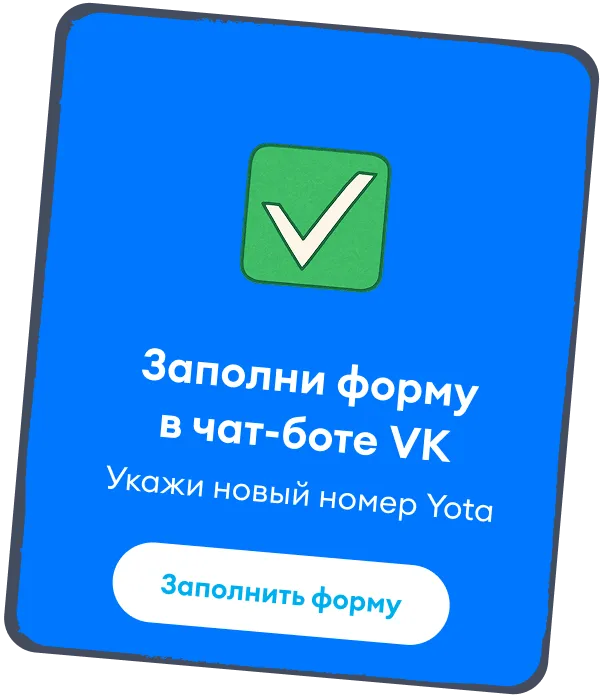
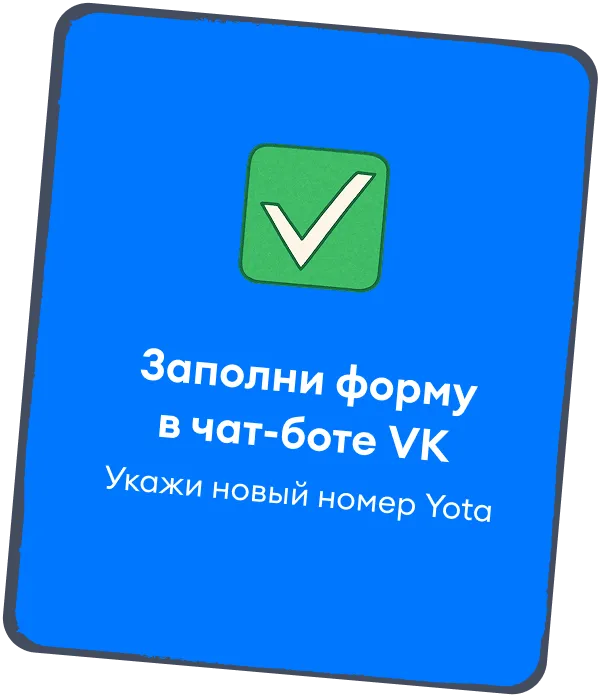
feat(app): кнопка для шага 2

diff --git a/src/app/components/blocks/steps/steps.html b/src/app/components/blocks/steps/steps.html
@@ -26,13 +26,19 @@
         </div>
       </div>
       <div class="steps__list-item">
-        <img
-          #stepItem
-          ngSrc="assets/img/step_2.webp"
-          alt="step"
-          height="698"
-          width="602"
-        />
+        <div class="card">
+          <img
+            #stepItem
+            ngSrc="assets/img/step_2.webp"
+            alt="step"
+            height="698"
+            width="601"
+          />
+          <div class="btn">
+            <app-button variant="secondary" [isFull]="false">Заполнить форму</app-button>
+          </div>
+        </div>
+
         <div class="arrow left" #arrow>
           <img
             ngSrc="assets/img/arrow.svg"

diff --git a/src/app/components/blocks/steps/steps.ts b/src/app/components/blocks/steps/steps.ts
@@ -9,10 +9,11 @@ import {NgOptimizedImage} from '@angular/common';
 import {gsap} from 'gsap';
 import {ScrollTrigger} from 'gsap/ScrollTrigger';
 import {IsBrowser} from '../../../services/is-browser';
+import {Button} from '../../ui/button/button';
 
 @Component({
   selector: 'app-steps',
-  imports: [Container, NgOptimizedImage],
+  imports: [Container, NgOptimizedImage, Button],
   templateUrl: './steps.html',
   styleUrl: './steps.scss',
 })

diff --git a/src/app/components/blocks/steps/steps.scss b/src/app/components/blocks/steps/steps.scss
@@ -21,6 +21,24 @@
     aspect-ratio: 273 / 326;
     max-width: 500px;
 
+    .card {
+      position: relative;
+
+      .btn {
+        display: flex;
+        justify-content: center;
+
+        transform: rotate(5deg);
+        position: absolute;
+        left: 0;
+        right: 27px;
+        bottom: 30px;
+        margin: auto;
+        z-index: 2;
+      }
+
+    }
+
     img {
       position: relative;
       z-index: 1;
